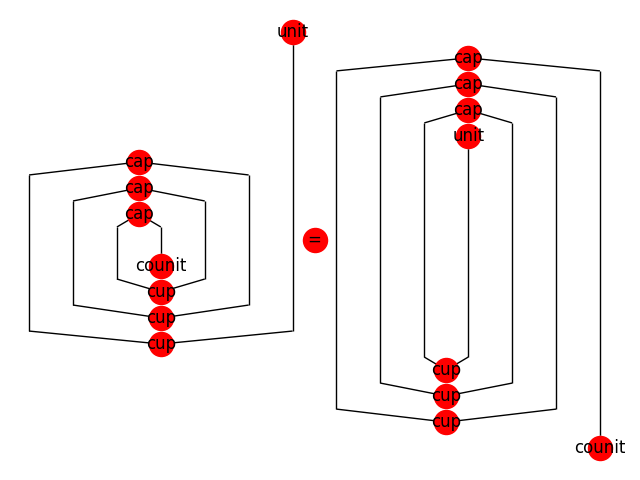
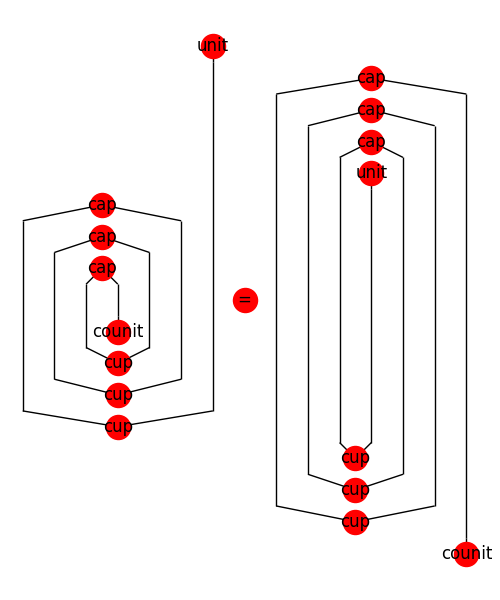
edit draw

Changed region(s): [[0.03, 0.0312, 0.93, 0.9062], [0.87, 0.1562, 0.99, 0.9688], [0.87, 0.2188, 0.9, 0.8438]]

diff --git a/moncat.py b/moncat.py
@@ -374,28 +374,28 @@ class Diagram(cat.Diagram):
         def make_space(scan, box, off):
             if not scan:
                 return 0
+            half_width = len(box.cod[:-1]) / 2 + 1
             if not box.dom:
                 if not off:
-                    x_pos = pos[scan[0]][0] - len(box.cod) / 2 - .5
+                    x_pos = pos[scan[0]][0] - half_width
                 elif off == len(scan):
-                    x_pos = pos[scan[-1]][0] + len(box.cod) / 2 + .5
+                    x_pos = pos[scan[-1]][0] + half_width
                 else:
                     right = pos[scan[off + len(box.dom)]][0]
                     x_pos = (pos[scan[off - 1]][0] + right) / 2
             else:
                 right = pos[scan[off + len(box.dom) - 1]][0]
                 x_pos = (pos[scan[off]][0] + right) / 2
-            if off and pos[scan[off - 1]][0] > x_pos - len(box.cod) / 2 - .5:
+            if off and pos[scan[off - 1]][0] > x_pos - half_width:
                 limit = pos[scan[off - 1]][0]
-                pad = limit - (x_pos - len(box.cod) / 2 - .5)
+                pad = limit - x_pos + half_width
                 for node, position in pos.items():
                     if position[0] <= limit:
                         pos[node] = (pos[node][0] - pad, pos[node][1])
             if off + len(box.dom) < len(scan)\
-                    and pos[scan[off + len(box.dom)]][0]\
-                    < x_pos + len(box.cod) / 2 + .5:
+                    and pos[scan[off + len(box.dom)]][0] < x_pos + half_width:
                 limit = pos[scan[off + len(box.dom)]][0]
-                pad = x_pos + len(box.cod) / 2 + .5 - limit
+                pad = x_pos + half_width - limit
                 for node, position in pos.items():
                     if position[0] >= limit:
                         pos[node] = (pos[node][0] + pad, pos[node][1])
@@ -414,7 +414,7 @@ class Diagram(cat.Diagram):
             graph.add_edge(scan[i], 'output_{}'.format(i))
         return graph, pos, labels
 
-    def draw(self, show=True):
+    def draw(self, show=True, aspect='equal'):
         """
         Draws a diagram using networkx and matplotlib.
         """
@@ -422,16 +422,20 @@ class Diagram(cat.Diagram):
         inputs, outputs, boxes, wires = (
             [node for node in graph.nodes if node[:len(name)] == name]
             for name in ('input', 'output', 'box', 'wire'))
+        _, axis = plt.subplots()
         nx.draw_networkx_nodes(
-            graph, positions, nodelist=inputs, node_color='#ffffff')
+            graph, positions, nodelist=inputs, node_color='#ffffff', ax=axis)
         nx.draw_networkx_nodes(
-            graph, positions, nodelist=outputs, node_color='#ffffff')
+            graph, positions, nodelist=outputs, node_color='#ffffff', ax=axis)
         nx.draw_networkx_nodes(
-            graph, positions, nodelist=wires, node_size=0)
+            graph, positions, nodelist=wires, node_size=0, ax=axis)
         nx.draw_networkx_nodes(
-            graph, positions, nodelist=boxes, node_color='#ff0000')
-        nx.draw_networkx_labels(graph, positions, labels)
-        nx.draw_networkx_edges(graph, positions)
+            graph, positions, nodelist=boxes, node_color='#ff0000', ax=axis)
+        nx.draw_networkx_labels(graph, positions, labels, ax=axis)
+        nx.draw_networkx_edges(graph, positions, ax=axis)
+        plt.subplots_adjust(
+            top=1, bottom=0, right=1, left=0, hspace=0, wspace=0)
+        axis.set_aspect(aspect)
         plt.axis("off")
         if show:  # pragma: no cover
             plt.show()

diff --git a/tests/test_rigidcat.py b/tests/test_rigidcat.py
@@ -71,7 +71,8 @@ def test_Diagram_draw():
     plt.rcParams.update({'font.size': 18, 'figure.figsize': (5, 2)})
     x, eq = Ty('x'), Box('=', Ty(), Ty())
     diagram = Id(x.r).transpose_l() @ eq @ Id(x) @ eq @ Id(x.l).transpose_r()
-    diagram.interchange(4, 0, left=True).interchange(2, 5).draw(show=False)
+    diagram = diagram.interchange(4, 0, left=True).interchange(2, 5)
+    diagram.draw(show=False, aspect='auto')
     plt.subplots_adjust(
         top=1, bottom=0, right=1, left=0, hspace=0, wspace=0)
     plt.savefig(dir + '.' + file)

diff --git a/tests/test_moncat.py b/tests/test_moncat.py
@@ -172,7 +172,7 @@ def test_spiral(n=2):
 def test_Diagram_draw():
     dir, file = 'docs/imgs/', 'spiral-equality.png'
     plt.clf()
-    plt.rcParams.update({'font.size': 18, 'figure.figsize': (5, 2)})
+    plt.rcParams.update({'font.size': 18, 'figure.figsize': (5, 6)})
     equals = Box('=', Ty(), Ty())
     diagram = ((build_spiral(3) @ equals).interchange(8, 4, left=True)
                @ build_spiral(3).normal_form()).interchange(9, 1, left=True)\

diff --git a/circuit.py b/circuit.py
@@ -162,7 +162,7 @@ class Circuit(Diagram):
         if not isinstance(y, PRO):
             raise TypeError(messages.type_err(PRO, y))
         result = Id(x @ y)
-        cup = CX >> Gate('H @ sqrt(2)', 1, [1, 1, 1, -1]) @ Id(1) >> Bra(0, 0)
+        cup = CX >> Gate('H', 1, [1, 1, 1, -1]) @ Id(1) >> Bra(0, 0)
         for i in range(1, len(x) + 1):
             result = result >> Id(len(x) - i) @ cup @ Id(len(x) - i)
         return result
